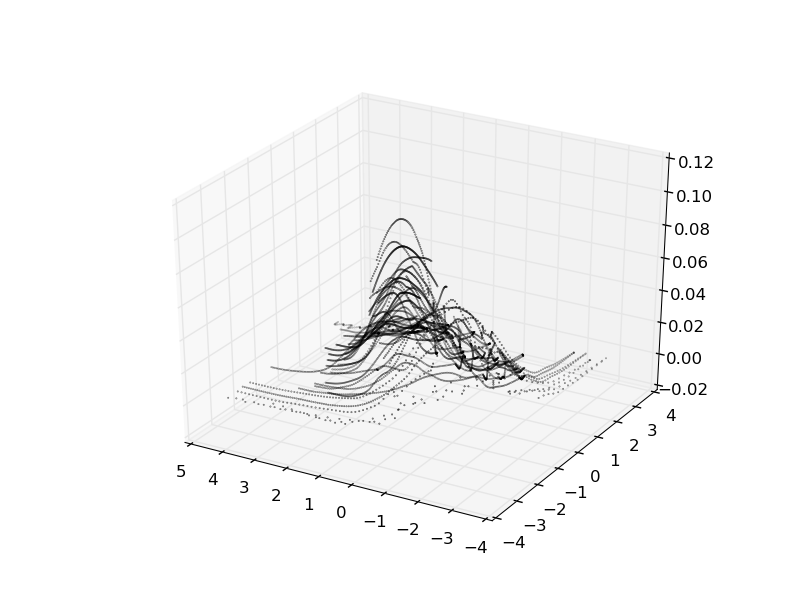
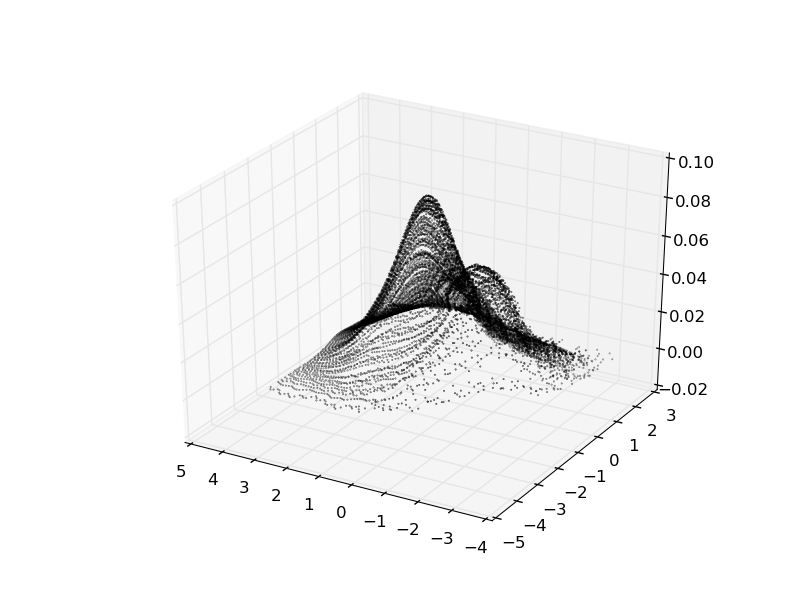
fix in CurveObject for interpolating quantile curves, images updated

diff --git a/interpolation/qInterpolate.cpp b/interpolation/qInterpolate.cpp
@@ -13,8 +13,8 @@
 
 #include <cstdlib>
 
-#define QUANTILE_Q 50
-#define DIV 30
+#define QUANTILE_Q 100
+#define DIV 200
 #define NUM_PTS 150
 
 #define WEIRD_MACRO_AFTER_INITIALIZE_IN_MAIN import_array1(-1);
@@ -235,7 +235,7 @@ public:
                 (nextPosition.y - currentPosition.y);
 
             currentDistance += differentialDistance;
-            if (currentDistance - pointDistances > distances[current]) {
+            while (currentDistance - pointDistances > distances[current]) {
                 pointDistances += distances[current];
                 current += 1;
                 if (current > positions.size() - 2) current = positions.size() - 2;
@@ -393,6 +393,7 @@ void parameterizeQuantiles(const std::vector<std::list<Vector2> >& qpts,
         std::list<Vector2>::const_iterator iter;
         for (iter = qpts[k].begin(); iter != qpts[k].end(); ++iter) {
             const Vector2& v = *iter;
+
             cobj.addPoint(v);
         }
 
